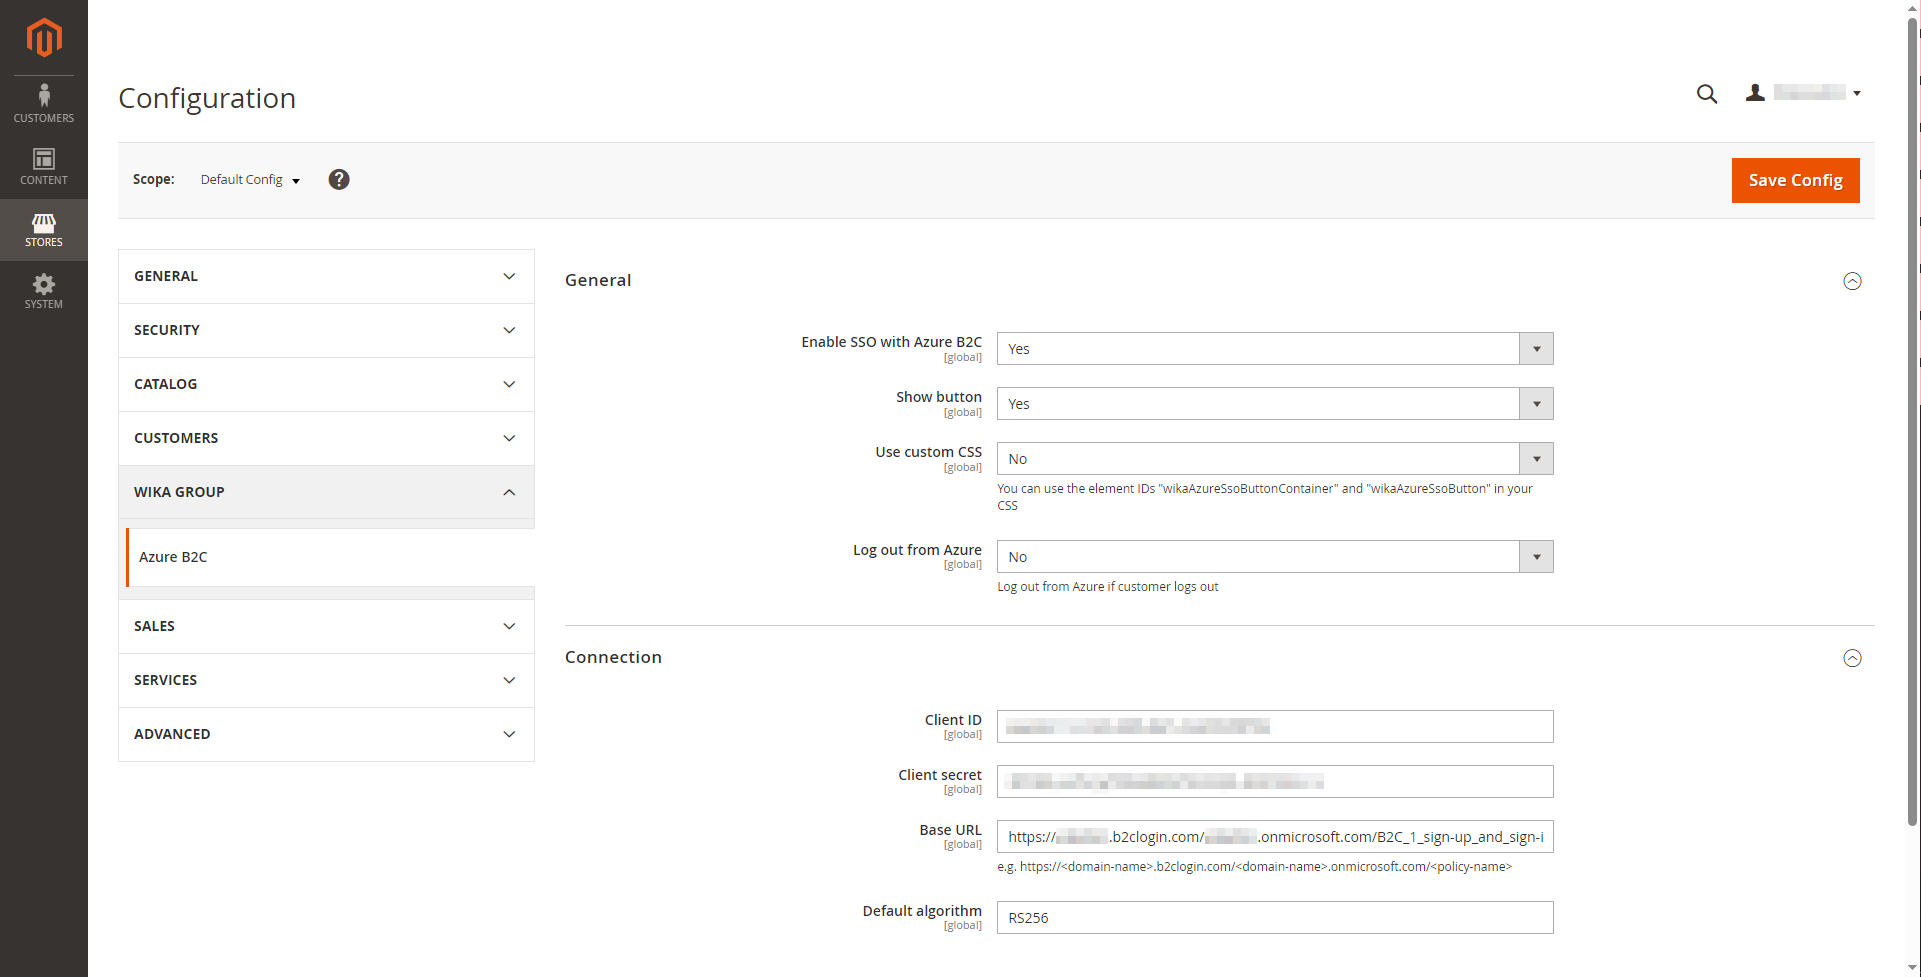
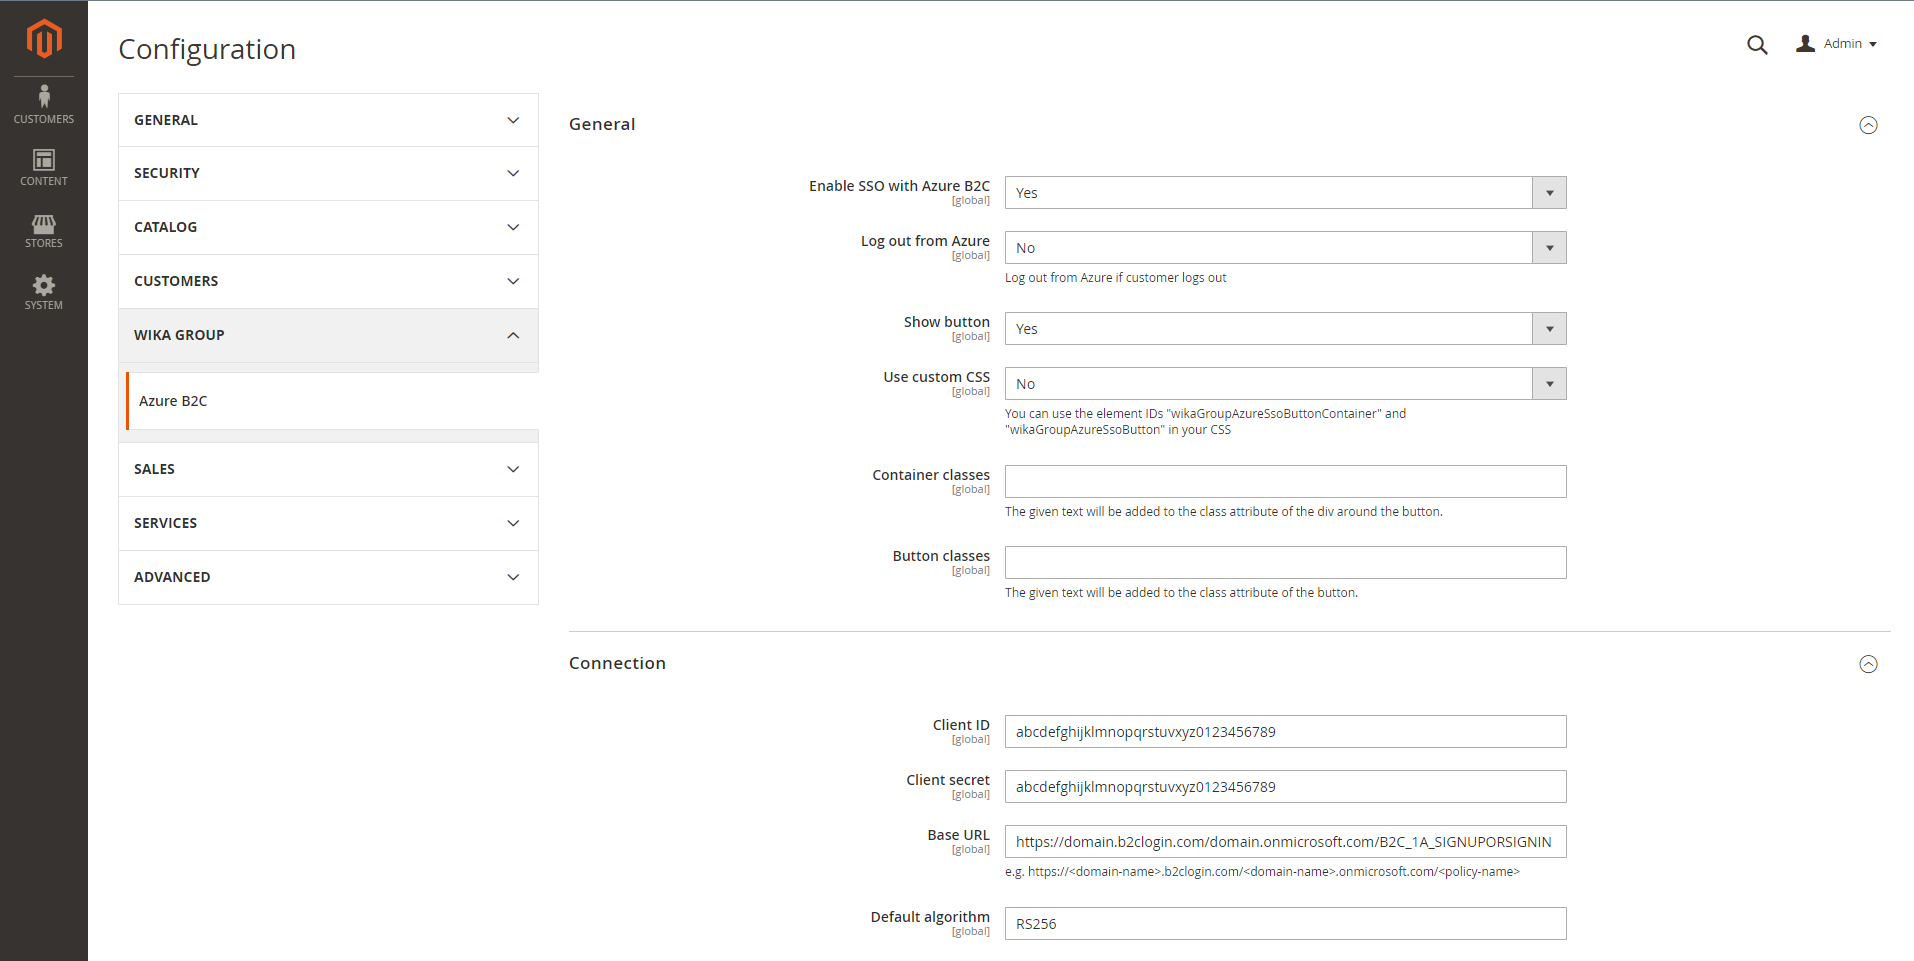
Added configuration to add classes to the button and its container

diff --git a/Helper/Settings.php b/Helper/Settings.php
@@ -28,6 +28,16 @@ class Settings extends AbstractHelper
         return (bool)$this->scopeConfig->getValue('azure_b2c/general/use_custom_css');
     }
 
+    public function getCustomContainerCss(): string
+    {
+        return (string)$this->scopeConfig->getValue('azure_b2c/general/custom_container_class');
+    }
+
+    public function getCustomButtonCss(): string
+    {
+        return (string)$this->scopeConfig->getValue('azure_b2c/general/custom_button_class');
+    }
+
     public function logoutFromAzure(): bool
     {
         return (bool)$this->scopeConfig->getValue('azure_b2c/general/log_out_from_azure');
